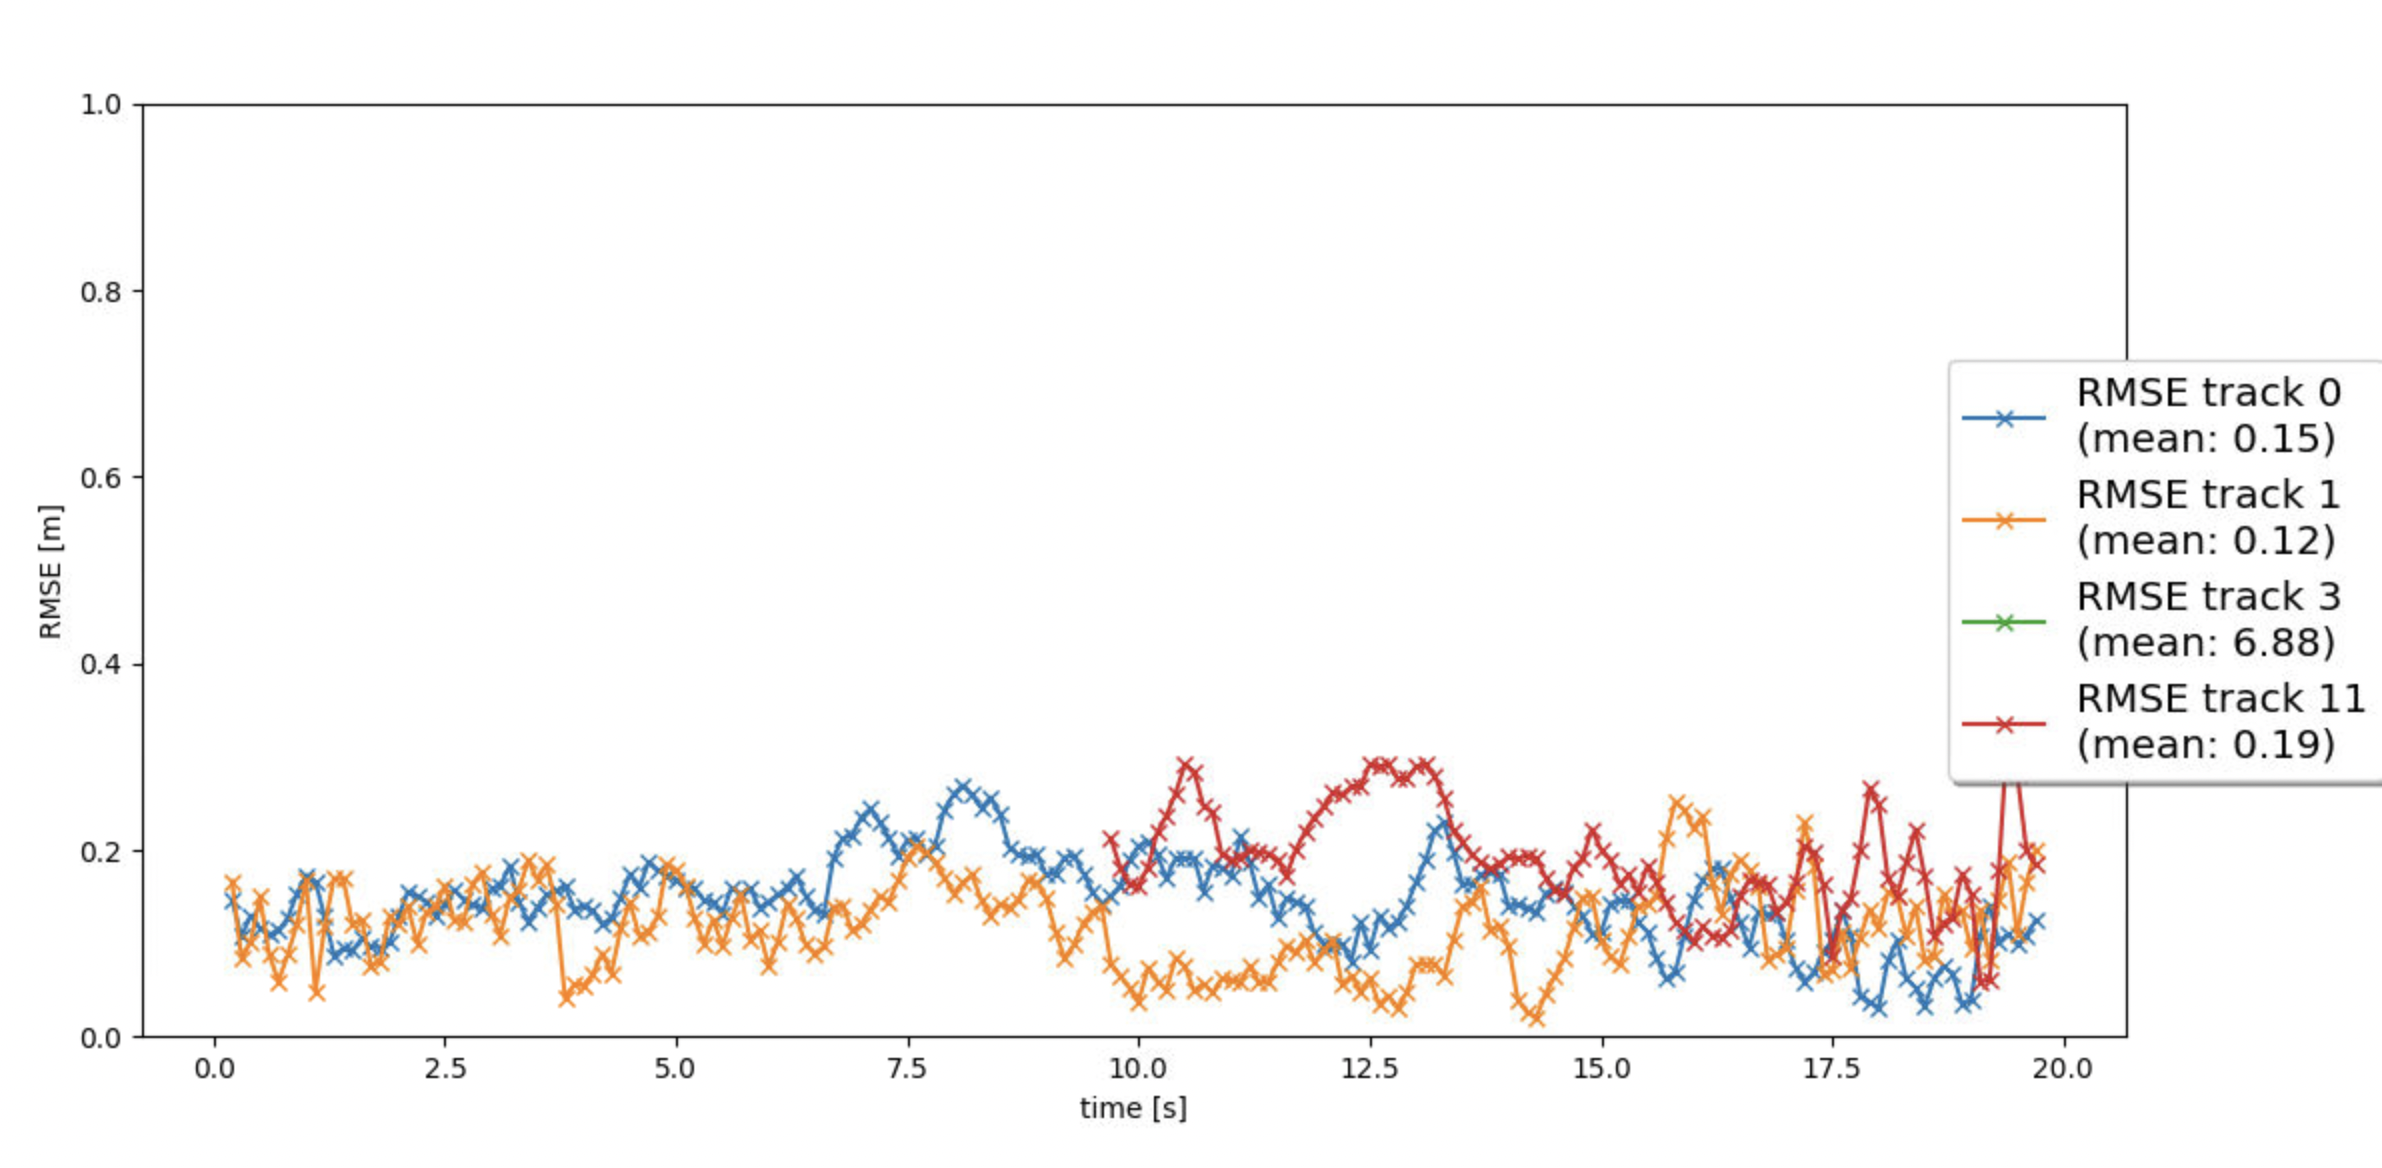
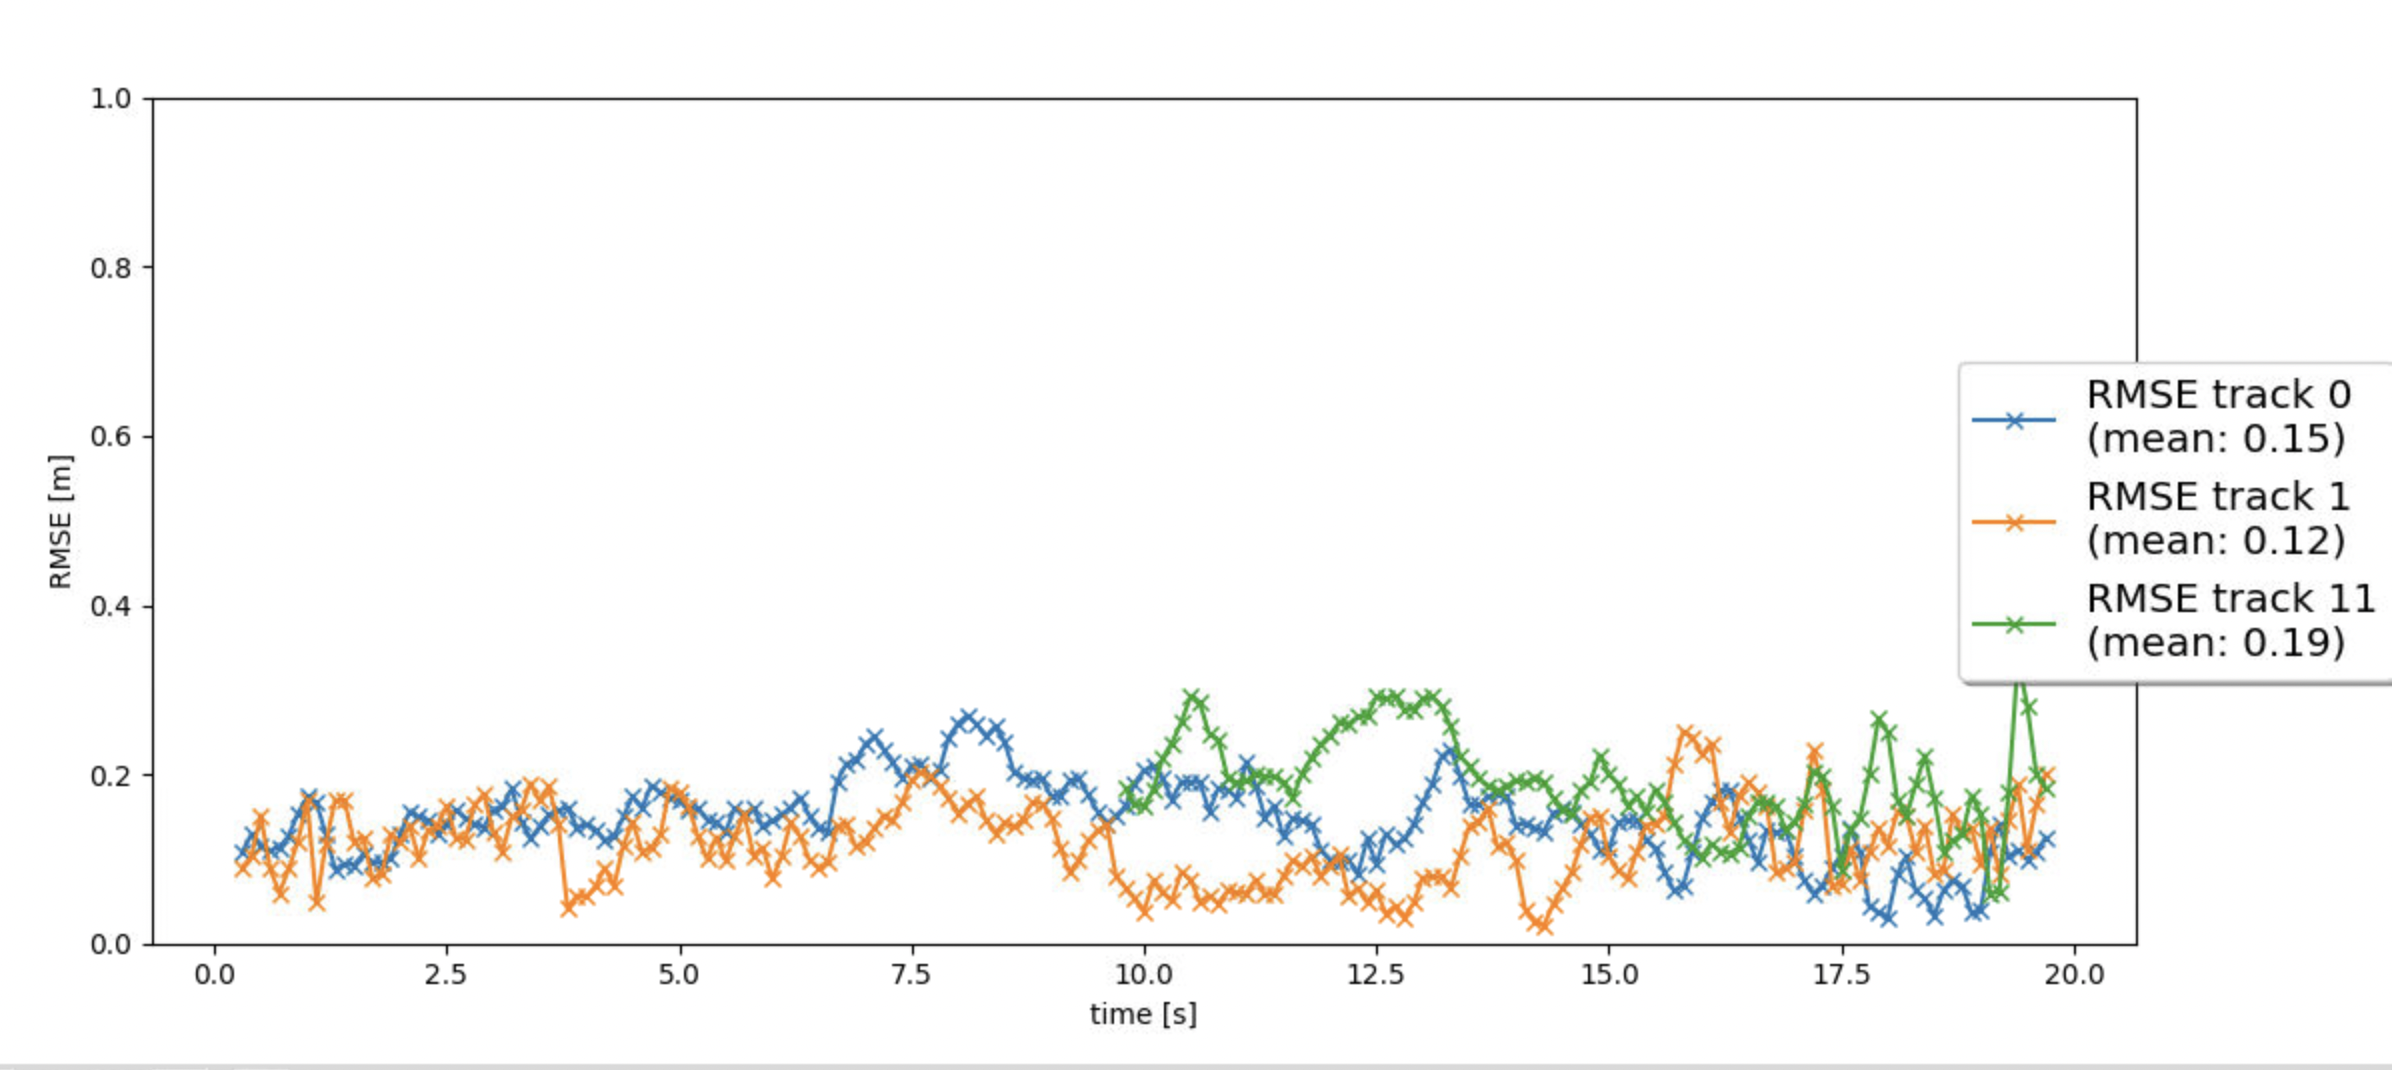
Fix P: Covariance initialisation

diff --git a/student/trackmanagement.py b/student/trackmanagement.py
@@ -45,12 +45,15 @@ class Track:
                         [ 0.        ],
                         [ 0.        ]])
 
-        self.P = np.matrix([[9.0e-02, 0.0e+00, 0.0e+00, 0.0e+00, 0.0e+00, 0.0e+00],
-                        [0.0e+00, 9.0e-02, 0.0e+00, 0.0e+00, 0.0e+00, 0.0e+00],
-                        [0.0e+00, 0.0e+00, 6.4e-03, 0.0e+00, 0.0e+00, 0.0e+00],
-                        [0.0e+00, 0.0e+00, 0.0e+00, 2.5e+03, 0.0e+00, 0.0e+00],
-                        [0.0e+00, 0.0e+00, 0.0e+00, 0.0e+00, 2.5e+03, 0.0e+00],
-                        [0.0e+00, 0.0e+00, 0.0e+00, 0.0e+00, 0.0e+00, 2.5e+01]])
+        P_pos = M_rot * meas.R * M_rot.T
+        P_vel = np.matrix([
+            [params.sigma_p44**2, 0, 0],
+            [0, params.sigma_p55**2, 0],
+            [0, 0, params.sigma_p66**2]
+        ])
+        self.P = np.zeros((6, 6))
+        self.P[:3,:3] = P_pos
+        self.P[3:,3:] = P_vel
         
         self.state = 'initialised'
         self.score = 1/params.window
@@ -120,9 +123,9 @@ class Trackmanagement:
         for i in unassigned_tracks:
             track = self.track_list[i]
 
-            if (track.state == "initialised" and track.score < 0.2 and track.age>10) or \
+            if (track.state == "initialised" and track.score < 0.2 and track.age>params.stablization_age) or \
                 (track.state == "tentative" and track.score < 0.3) or \
-                (track.state == "confirmed" and track.score < 0.6) or\
+                (track.state == "confirmed" and track.score < params.delete_threshold) or\
                 (track.P[0,0]>params.max_P) or (track.P[1,1]>params.max_P):
                 tracks_to_be_deleted.append(track)
         
@@ -160,10 +163,10 @@ class Trackmanagement:
 
         track.score += 1/params.window
         track.score = min(track.score, 1)
-        if track.state == "initialised" and track.score > 0.4:
+        if track.state == "initialised" and track.score > params.tentative_threshold:
             track.state = "tentative"
             
-        if track.state == "tentative" and track.score > 0.6:
+        if track.state == "tentative" and track.score > params.confirmed_threshold:
             track.state = "confirmed"
         
         ############

diff --git a/misc/params.py b/misc/params.py
@@ -18,6 +18,8 @@ dt = 0.1 # time increment
 q=3 # process noise variable for Kalman filter Q
 
 # track management parameters (Step 2)
+stablization_age = 5 #Delete initialised track after stablization_age frame if score is below threshold 
+tentative_threshold = 0.4 # track score threshold to switch from 'initialised' to 'tentative'
 confirmed_threshold = 0.8 # track score threshold to switch from 'tentative' to 'confirmed'
 delete_threshold = 0.6 # track score threshold to delete confirmed tracks
 window = 6 # number of frames for track score calculation

diff --git a/student/association.py b/student/association.py
@@ -101,11 +101,7 @@ class Association:
         ############
         # TODO Step 3: return True if measurement lies inside gate, otherwise False
         ############
-        if sensor.name == 'lidar':
-            limit = chi2.ppf(params.gating_threshold, df=2)
-            
-        if sensor.name == 'camera':
-            limit = chi2.ppf(params.gating_threshold, df=1)
+        limit = chi2.ppf(params.gating_threshold, df=sensor.dim_meas)
         
         if MHD < limit:
             return True

diff --git a/student/measurements.py b/student/measurements.py
@@ -129,7 +129,6 @@ class Sensor:
         ############
         # TODO Step 4: remove restriction to lidar in order to include camera as well
         ############
-
         meas = Measurement(num_frame, z, self)
         meas_list.append(meas)
         
